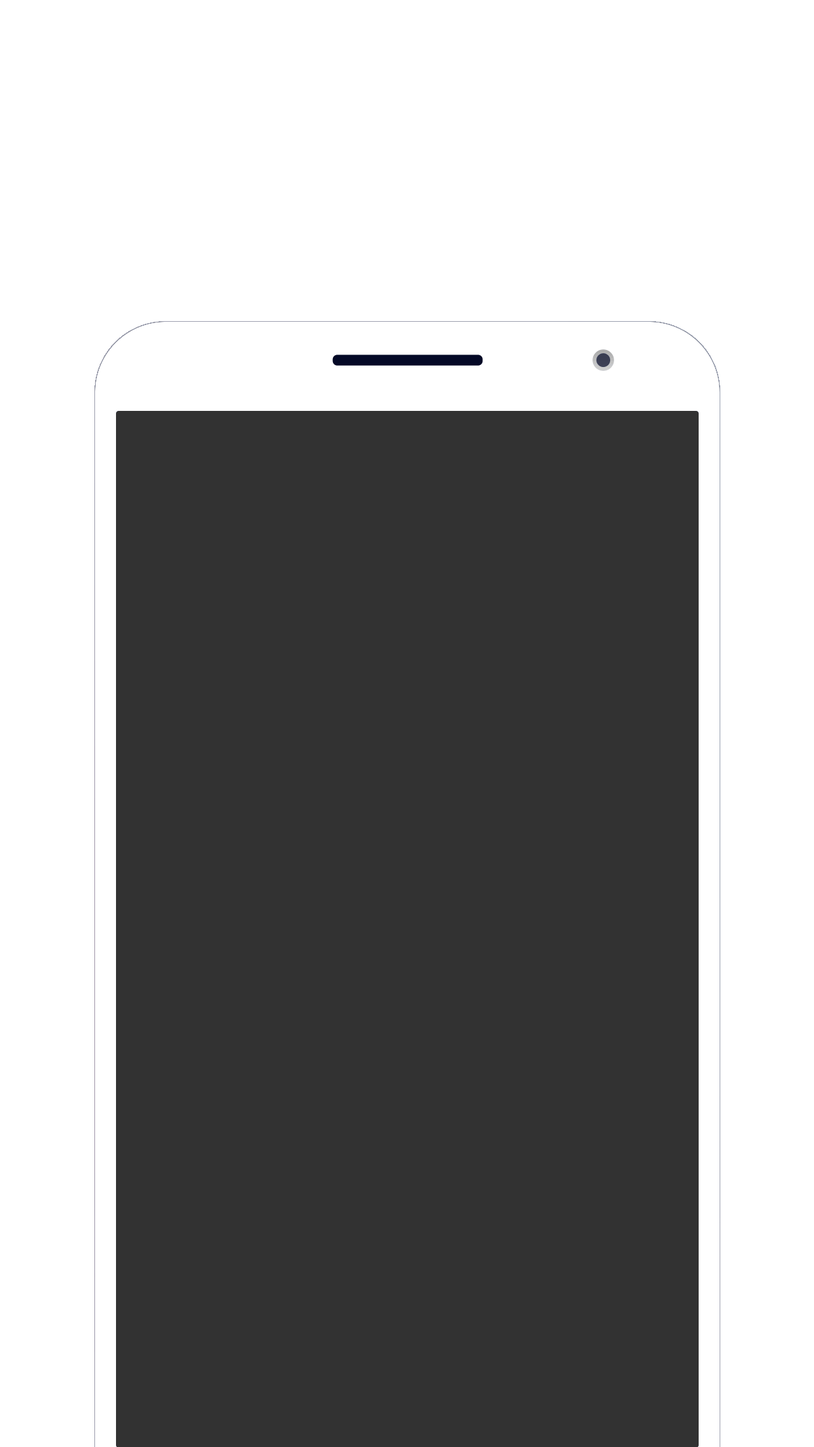
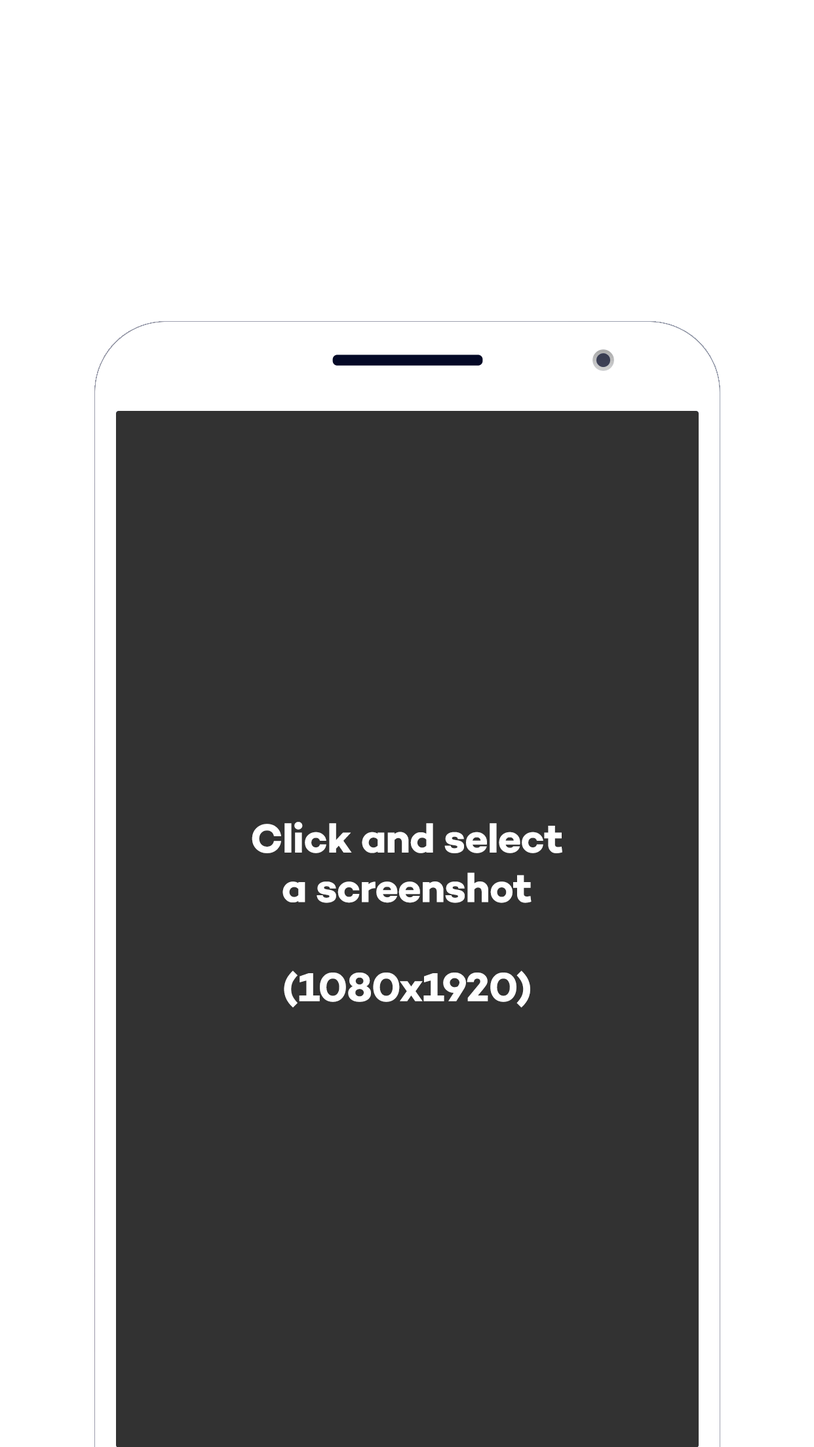
text-color and bg color added

Changed region(s): [[0.306, 0.5625, 0.7037, 0.625], [0.3366, 0.6562, 0.6731, 0.7188]]

diff --git a/src/App.vue b/src/App.vue
@@ -1,35 +1,25 @@
 <template>
   <div id="app">
       <div class="container mx-auto py-5">
-        <header class="flex justify-between py-4 px-4 bg-green-300 rounded">
+        <!-- <header class="flex justify-between py-4 px-4 bg-green-300 rounded">
           <div id="logo">App Screen Builder</div>
           <nav>
             <a href="#">Test</a>
           </nav>
-        </header>
+        </header> -->
 
         <div id="app-wrapper" class="py-4 my-4 bg-white rounded">
           <div id="tabs">
-            <div id="tab-header">
-              <ul class="flex border-b">
-                <li class="-mb-px mr-1">
-                  <a class="bg-white inline-block border-l border-t border-r rounded-t py-2 px-4 text-blue-700 font-semibold" href="#">Screenshot 1</a>
-                </li>
-                <li class="mr-1">
-                  <a class="bg-white inline-block py-2 px-4 text-blue-500 hover:text-blue-800 font-semibold" href="#">Screenshot 2</a>
-                </li>
-                <li class="mr-1">
-                  <a class="bg-white inline-block py-2 px-4 text-blue-500 hover:text-blue-800 font-semibold" href="#"> Screenshot3</a>
-                </li>
-              </ul>
-            </div>
-
             <div class="tab-body flex p-4 bg-gray-300 rounded-bl rounded-br">
-              <div class="screenshot-wrapper bg-green-600 rounded relative">
-                <div class="editable-area flex justify-center items-center h-48 py-8">
-                  <p :style="{'font-family': activeFont, 'font-size': fontSize + 'px'}">{{ text }}</p>
+              <div>
+                <button class="inline-block w-full mb-4 py-3 text-center bg-green-600 rounded text-white shadow hover:bg-green-700 outline-none" @click="downloadImage">Download</button>
+                <div class="screenshot-wrapper rounded relative cursor-pointer" :style="{'background': bgColor.hex8, 'font-size': fontSize + 'px' }" @click="changeScreenshot">
+                  <div class="editable-area flex justify-center items-center h-48 py-8 text-center overflow-hidden">
+                    <p :style="{'font-family': activeFont, 'font-size': fontSize + 'px', 'color': textColor.hex8 }">{{ text }}</p>
+                  </div>
+                  <img :src="require('./assets/images/bg-android.png')" alt="" class="phone-frame absolute bottom-0 w-full h-auto">
+                  <div class="screenshot-cover" :style="ss ? {'background-image': 'url(' + ss + ')'} : ''"></div>
                 </div>
-                <img :src="require('./assets/images/bg-android.png')" alt="" class="phone-frame absolute bottom-0 w-full h-auto">
               </div>
 
               <div class="settings-wrapper p-8 bg-gray-200 ml-4 rounded flex-1">
@@ -39,14 +29,7 @@
                   </label>
                   <input class="shadow appearance-none border rounded w-full py-3 px-4 text-gray-700 leading-tight focus:outline-none focus:shadow-outline" id="text" type="text" placeholder="Plase enter text" v-model="text">
                 </div>
-                <div class="mb-4">
-                  <label class="block text-gray-700 text-sm font-bold mb-2" for="text">
-                    Phone
-                  </label>
-
-                  <Select />
-                </div>
-                <div class="flex mb-4 justify-between">
+                <div class="flex mb-4">
                   <div class="flex-1 mr-3">
                     <label class="block text-gray-700 text-sm font-bold mb-2" for="text">
                       Font Size
@@ -55,6 +38,25 @@
                     <input class="shadow appearance-none border rounded w-full py-3 px-4 text-gray-700 leading-tight focus:outline-none focus:shadow-outline" id="text" type="number" placeholder="Plase enter font size" v-model="fontSize">
                   </div>
                   <div class="flex-1 ml-3">
+                    <label class="block text-gray-700 text-sm font-bold mb-2" for="text">
+                        Text Color
+                    </label>
+                    <div class="flex">
+                      <input class="shadow appearance-none border rounded-bl rounded-tl w-full py-3 px-4 text-gray-700 leading-tight focus:outline-none focus:shadow-outline" id="text" type="text" v-model="textColor.hex8" autocomplete="off">
+                      <button class="shadow button py-3 px-4 bg-white rounded-br rounded-tr bg-gray-100" @click="() => this.textPickerStatus = !this.textPickerStatus">Pick</button>
+                    </div>
+                    <color-picker class="absolute z-10" v-model="textColor" v-show="textPickerStatus"></color-picker>
+                  </div>
+                </div>
+                <div class="mb-4">
+                  <label class="block text-gray-700 text-sm font-bold mb-2" for="text">
+                    Phone
+                  </label>
+
+                  <Select />
+                </div>
+                <div class="flex mb-4 justify-between">
+                  <div class="flex-1 ">
                     <label class="block text-gray-700 text-sm font-bold mb-2" for="">
                       Font Family
                     </label>
@@ -62,15 +64,38 @@
                   </div>
                 </div>
                 <div class="mb-4">
-                  <label class="block text-gray-700 text-sm font-bold mb-2" for="text">
-                      Text Color
+                  <label class="block text-gray-700 text-sm font-bold mb-2" for="">
+                      Background (CSS or HEX)
                   </label>
-                  <color-picker v-model="colors"></color-picker>
+                  <div class="solid-colors">
+                    <div class="my-5">
+                      <div class="flex">
+                        <input class="shadow appearance-none border rounded-bl rounded-tl w-full py-3 px-4 text-gray-700 leading-tight focus:outline-none focus:shadow-outline" id="text" type="text" v-model="bgColor.hex8" autocomplete="off">
+                        <button class="shadow button py-3 px-4 bg-white rounded-br rounded-tr bg-gray-100" @click="() => this.bgPickerStatus = !this.bgPickerStatus">Pick</button>
+                      </div>
+                      <color-picker class="absolute z-10" v-model="bgColor" v-show="bgPickerStatus"></color-picker>
+
+                      <div class="static-bg-colors flex flex-wrap justify-between mt-5 pt-2 border-t">
+                        <button class="bg-color-box w-24 h-20 my-3 mx-2 rounded shadow" :style="{'background': color}" v-for="(color, key) in staticGradients" :key="key" @click="setBgColor(color)"></button>
+                      </div>
+                    </div>
+                  </div>
+                  <input type="file" ref="ss" class="ss-file-input" @change="changeSS">
                 </div>
               </div>
             </div>
           </div>
         </div>
+      </div>
+
+
+      <!-- Screenshot -->
+      <div id="screenshot" class="screenshot-wrapper relative overflow-hidden" :style="{'background': bgColor.hex8, 'font-size': fontSize + 'px' }">
+        <div class="editable-area flex justify-center items-center h-48 py-8 text-center overflow-hidden">
+          <p :style="{'font-family': activeFont, 'font-size': fontSize + 'px', 'color': textColor.hex8 }">{{ text }}</p>
+        </div>
+        <img :src="require('./assets/images/bg-android.png')" alt="" class="phone-frame absolute bottom-0 w-full h-auto">
+        <div class="screenshot-cover" :style="ss ? {'background-image': 'url(' + ss + ')'} : ''"></div>
       </div>
   </div>
 </template>
@@ -80,38 +105,177 @@ import Select from './components/Select';
 import Vue from 'vue';
 import FontPicker from 'font-picker-vue';
 import { Chrome } from 'vue-color'
+import VueTinyTabs from 'vue-tiny-tabs'
+import html2canvas from 'html2canvas';
 
 export default {
   data(){
     return ({
-      text: "",
+      text: "Lorem sit dolor amet",
       activeFont: "Exo",
-      fontSize: 14,
-      colors: {
-        hex: '#194d33',
-        hsl: { h: 150, s: 0.5, l: 0.2, a: 1 },
-        hsv: { h: 150, s: 0.66, v: 0.30, a: 1 },
-        rgba: { r: 25, g: 77, b: 51, a: 1 },
-        a: 1
-      }
+      fontSize: 32,
+      textColor: {
+        hex: "#ffffff",
+        hex8: "#ffffffff"
+      },
+      bgColor: {
+        hex: "#38a169",
+        hex8: "#FF9B00ff"
+      },
+      textPickerStatus: false,
+      bgPickerStatus: false,
+      ss: "",
+      staticGradients: [
+        "linear-gradient(56deg, rgba(130, 130, 130, 0.05) 0%, rgba(130, 130, 130, 0.05) 33.333%,rgba(255, 255, 255, 0.05) 33.333%, rgba(255, 255, 255, 0.05) 66.666%,rgba(198, 198, 198, 0.05) 66.666%, rgba(198, 198, 198, 0.05) 99.999%),linear-gradient(29deg, rgba(94, 94, 94, 0.05) 0%, rgba(94, 94, 94, 0.05) 33.333%,rgba(185, 185, 185, 0.05) 33.333%, rgba(185, 185, 185, 0.05) 66.666%,rgba(113, 113, 113, 0.05) 66.666%, rgba(113, 113, 113, 0.05) 99.999%),linear-gradient(129deg, rgba(196, 196, 196, 0.05) 0%, rgba(196, 196, 196, 0.05) 33.333%,rgba(148, 148, 148, 0.05) 33.333%, rgba(148, 148, 148, 0.05) 66.666%,rgba(24, 24, 24, 0.05) 66.666%, rgba(24, 24, 24, 0.05) 99.999%),linear-gradient(76deg, rgba(19, 19, 19, 0.05) 0%, rgba(19, 19, 19, 0.05) 33.333%,rgba(159, 159, 159, 0.05) 33.333%, rgba(159, 159, 159, 0.05) 66.666%,rgba(108, 108, 108, 0.05) 66.666%, rgba(108, 108, 108, 0.05) 99.999%),linear-gradient(112deg, rgba(225, 225, 225, 0.05) 0%, rgba(225, 225, 225, 0.05) 33.333%,rgba(13, 13, 13, 0.05) 33.333%, rgba(13, 13, 13, 0.05) 66.666%,rgba(81, 81, 81, 0.05) 66.666%, rgba(81, 81, 81, 0.05) 99.999%),linear-gradient(90deg, rgb(75, 2, 28),rgb(175, 60, 142))",
+        "linear-gradient(44deg, rgba(243, 243, 243, 0.05) 0%, rgba(243, 243, 243, 0.05) 33.333%,rgba(79, 79, 79, 0.05) 33.333%, rgba(79, 79, 79, 0.05) 66.666%,rgba(9, 9, 9, 0.05) 66.666%, rgba(9, 9, 9, 0.05) 99.999%),linear-gradient(97deg, rgba(150, 150, 150, 0.05) 0%, rgba(150, 150, 150, 0.05) 33.333%,rgba(34, 34, 34, 0.05) 33.333%, rgba(34, 34, 34, 0.05) 66.666%,rgba(40, 40, 40, 0.05) 66.666%, rgba(40, 40, 40, 0.05) 99.999%),linear-gradient(29deg, rgba(56, 56, 56, 0.05) 0%, rgba(56, 56, 56, 0.05) 33.333%,rgba(226, 226, 226, 0.05) 33.333%, rgba(226, 226, 226, 0.05) 66.666%,rgba(221, 221, 221, 0.05) 66.666%, rgba(221, 221, 221, 0.05) 99.999%),linear-gradient(90deg, rgb(163, 238, 211),rgb(149, 75, 252))",
+        "linear-gradient(140deg, rgba(60, 60, 60, 0.04) 0%, rgba(60, 60, 60, 0.04) 18%,rgba(228, 228, 228, 0.04) 18%, rgba(228, 228, 228, 0.04) 100%),linear-gradient(252deg, rgba(159, 159, 159, 0.04) 0%, rgba(159, 159, 159, 0.04) 76%,rgba(255, 255, 255, 0.04) 76%, rgba(255, 255, 255, 0.04) 100%),linear-gradient(148deg, rgba(165, 165, 165, 0.04) 0%, rgba(165, 165, 165, 0.04) 30%,rgba(221, 221, 221, 0.04) 30%, rgba(221, 221, 221, 0.04) 100%),linear-gradient(196deg, rgba(238, 238, 238, 0.04) 0%, rgba(238, 238, 238, 0.04) 41%,rgba(176, 176, 176, 0.04) 41%, rgba(176, 176, 176, 0.04) 100%),linear-gradient(295deg, rgba(245, 245, 245, 0.04) 0%, rgba(245, 245, 245, 0.04) 75%,rgba(68, 68, 68, 0.04) 75%, rgba(68, 68, 68, 0.04) 100%),linear-gradient(89deg, rgba(179, 179, 179, 0.04) 0%, rgba(179, 179, 179, 0.04) 22%,rgba(30, 30, 30, 0.04) 22%, rgba(30, 30, 30, 0.04) 100%),linear-gradient(165deg, rgba(0, 0, 0, 0.04) 0%, rgba(0, 0, 0, 0.04) 40%,rgba(147, 147, 147, 0.04) 40%, rgba(147, 147, 147, 0.04) 100%),linear-gradient(293deg, rgba(204, 204, 204, 0.04) 0%, rgba(204, 204, 204, 0.04) 73%,rgba(62, 62, 62, 0.04) 73%, rgba(62, 62, 62, 0.04) 100%),linear-gradient(90deg, rgb(215, 117, 38),rgb(171, 161, 219))",
+        "linear-gradient(10deg, rgba(134, 134, 134, 0.05) 0%, rgba(134, 134, 134, 0.05) 33.333%,rgba(203, 203, 203, 0.05) 33.333%, rgba(203, 203, 203, 0.05) 66.666%,rgba(48, 48, 48, 0.05) 66.666%, rgba(48, 48, 48, 0.05) 99.999%),linear-gradient(295deg, rgba(90, 90, 90, 0.05) 0%, rgba(90, 90, 90, 0.05) 33.333%,rgba(23, 23, 23, 0.05) 33.333%, rgba(23, 23, 23, 0.05) 66.666%,rgba(71, 71, 71, 0.05) 66.666%, rgba(71, 71, 71, 0.05) 99.999%),linear-gradient(313deg, rgba(186, 186, 186, 0.05) 0%, rgba(186, 186, 186, 0.05) 33.333%,rgba(174, 174, 174, 0.05) 33.333%, rgba(174, 174, 174, 0.05) 66.666%,rgba(196, 196, 196, 0.05) 66.666%, rgba(196, 196, 196, 0.05) 99.999%),linear-gradient(356deg, rgba(2, 2, 2, 0.05) 0%, rgba(2, 2, 2, 0.05) 33.333%,rgba(110, 110, 110, 0.05) 33.333%, rgba(110, 110, 110, 0.05) 66.666%,rgba(207, 207, 207, 0.05) 66.666%, rgba(207, 207, 207, 0.05) 99.999%),linear-gradient(343deg, rgba(39, 39, 39, 0.05) 0%, rgba(39, 39, 39, 0.05) 33.333%,rgba(145, 145, 145, 0.05) 33.333%, rgba(145, 145, 145, 0.05) 66.666%,rgba(205, 205, 205, 0.05) 66.666%, rgba(205, 205, 205, 0.05) 99.999%),linear-gradient(90deg, rgb(227, 5, 98),rgb(215, 148, 27))",
+        "linear-gradient(330deg, rgba(225, 225, 225, 0.05) 0%, rgba(225, 225, 225, 0.05) 33.333%,rgba(114, 114, 114, 0.05) 33.333%, rgba(114, 114, 114, 0.05) 66.666%,rgba(52, 52, 52, 0.05) 66.666%, rgba(52, 52, 52, 0.05) 99.999%),linear-gradient(66deg, rgba(181, 181, 181, 0.05) 0%, rgba(181, 181, 181, 0.05) 33.333%,rgba(27, 27, 27, 0.05) 33.333%, rgba(27, 27, 27, 0.05) 66.666%,rgba(251, 251, 251, 0.05) 66.666%, rgba(251, 251, 251, 0.05) 99.999%),linear-gradient(225deg, rgba(98, 98, 98, 0.05) 0%, rgba(98, 98, 98, 0.05) 33.333%,rgba(222, 222, 222, 0.05) 33.333%, rgba(222, 222, 222, 0.05) 66.666%,rgba(228, 228, 228, 0.05) 66.666%, rgba(228, 228, 228, 0.05) 99.999%),linear-gradient(90deg, rgb(28, 20, 63),rgb(40, 160, 253))",
+        "linear-gradient(17deg, rgba(41, 41, 41, 0.02) 0%, rgba(41, 41, 41, 0.02) 48%,rgba(10, 10, 10, 0.02) 48%, rgba(10, 10, 10, 0.02) 59%,rgba(164, 164, 164, 0.02) 59%, rgba(164, 164, 164, 0.02) 73%,rgba(79, 79, 79, 0.02) 73%, rgba(79, 79, 79, 0.02) 93%,rgba(42, 42, 42, 0.02) 93%, rgba(42, 42, 42, 0.02) 100%),linear-gradient(42deg, rgba(124, 124, 124, 0.02) 0%, rgba(124, 124, 124, 0.02) 15%,rgba(116, 116, 116, 0.02) 15%, rgba(116, 116, 116, 0.02) 23%,rgba(41, 41, 41, 0.02) 23%, rgba(41, 41, 41, 0.02) 44%,rgba(196, 196, 196, 0.02) 44%, rgba(196, 196, 196, 0.02) 54%,rgba(145, 145, 145, 0.02) 54%, rgba(145, 145, 145, 0.02) 100%),linear-gradient(151deg, rgba(85, 85, 85, 0.02) 0%, rgba(85, 85, 85, 0.02) 12%,rgba(72, 72, 72, 0.02) 12%, rgba(72, 72, 72, 0.02) 28%,rgba(156, 156, 156, 0.02) 28%, rgba(156, 156, 156, 0.02) 33%,rgba(230, 230, 230, 0.02) 33%, rgba(230, 230, 230, 0.02) 50%,rgba(13, 13, 13, 0.02) 50%, rgba(13, 13, 13, 0.02) 100%),linear-gradient(76deg, rgba(25, 25, 25, 0.02) 0%, rgba(25, 25, 25, 0.02) 9%,rgba(183, 183, 183, 0.02) 9%, rgba(183, 183, 183, 0.02) 32%,rgba(19, 19, 19, 0.02) 32%, rgba(19, 19, 19, 0.02) 86%,rgba(129, 129, 129, 0.02) 86%, rgba(129, 129, 129, 0.02) 88%,rgba(174, 174, 174, 0.02) 88%, rgba(174, 174, 174, 0.02) 100%),linear-gradient(90deg, rgb(41, 41, 41),rgb(8, 8, 8))",
+        "linear-gradient(246deg, rgba(234, 234, 234, 0.04) 0%, rgba(234, 234, 234, 0.04) 33.3%,rgba(69, 69, 69, 0.04) 33.3%, rgba(69, 69, 69, 0.04) 66.6%,rgba(189, 189, 189, 0.04) 66.6%, rgba(189, 189, 189, 0.04) 99.89999999999999%),linear-gradient(81deg, rgba(126, 126, 126, 0.05) 0%, rgba(126, 126, 126, 0.05) 33.3%,rgba(237, 237, 237, 0.05) 33.3%, rgba(237, 237, 237, 0.05) 66.6%,rgba(74, 74, 74, 0.05) 66.6%, rgba(74, 74, 74, 0.05) 99.89999999999999%),linear-gradient(14deg, rgba(3, 3, 3, 0.08) 0%, rgba(3, 3, 3, 0.08) 33.3%,rgba(156, 156, 156, 0.08) 33.3%, rgba(156, 156, 156, 0.08) 66.6%,rgba(199, 199, 199, 0.08) 66.6%, rgba(199, 199, 199, 0.08) 99.89999999999999%),linear-gradient(323deg, rgba(82, 82, 82, 0.06) 0%, rgba(82, 82, 82, 0.06) 33.3%,rgba(179, 179, 179, 0.06) 33.3%, rgba(179, 179, 179, 0.06) 66.6%,rgba(212, 212, 212, 0.06) 66.6%, rgba(212, 212, 212, 0.06) 99.89999999999999%),linear-gradient(32deg, rgba(70, 70, 70, 0.02) 0%, rgba(70, 70, 70, 0.02) 33.3%,rgba(166, 166, 166, 0.02) 33.3%, rgba(166, 166, 166, 0.02) 66.6%,rgba(53, 53, 53, 0.02) 66.6%, rgba(53, 53, 53, 0.02) 99.89999999999999%),linear-gradient(38deg, rgba(129, 129, 129, 0.09) 0%, rgba(129, 129, 129, 0.09) 33.3%,rgba(38, 38, 38, 0.09) 33.3%, rgba(38, 38, 38, 0.09) 66.6%,rgba(153, 153, 153, 0.09) 66.6%, rgba(153, 153, 153, 0.09) 99.89999999999999%),linear-gradient(63deg, rgba(51, 51, 51, 0.02) 0%, rgba(51, 51, 51, 0.02) 33.3%,rgba(12, 12, 12, 0.02) 33.3%, rgba(12, 12, 12, 0.02) 66.6%,rgba(158, 158, 158, 0.02) 66.6%, rgba(158, 158, 158, 0.02) 99.89999999999999%),linear-gradient(227deg, rgba(63, 63, 63, 0.03) 0%, rgba(63, 63, 63, 0.03) 33.3%,rgba(9, 9, 9, 0.03) 33.3%, rgba(9, 9, 9, 0.03) 66.6%,rgba(85, 85, 85, 0.03) 66.6%, rgba(85, 85, 85, 0.03) 99.89999999999999%),linear-gradient(103deg, rgba(247, 247, 247, 0.07) 0%, rgba(247, 247, 247, 0.07) 33.3%,rgba(93, 93, 93, 0.07) 33.3%, rgba(93, 93, 93, 0.07) 66.6%,rgba(208, 208, 208, 0.07) 66.6%, rgba(208, 208, 208, 0.07) 99%),linear-gradient(0deg, #0b91d7,#6efc29)",
+        "linear-gradient(52deg, rgba(163, 163, 163, 0.09) 0%, rgba(163, 163, 163, 0.09) 33.3%,rgba(100, 100, 100, 0.09) 33.3%, rgba(100, 100, 100, 0.09) 66.6%,rgba(162, 162, 162, 0.09) 66.6%, rgba(162, 162, 162, 0.09) 99%),linear-gradient(258deg, rgba(193, 193, 193, 0.06) 0%, rgba(193, 193, 193, 0.06) 33.3%,rgba(169, 169, 169, 0.06) 33.3%, rgba(169, 169, 169, 0.06) 66.6%,rgba(92, 92, 92, 0.06) 66.6%, rgba(92, 92, 92, 0.06) 99%),linear-gradient(129deg, rgba(45, 45, 45, 0.03) 0%, rgba(45, 45, 45, 0.03) 33.3%,rgba(223, 223, 223, 0.03) 33.3%, rgba(223, 223, 223, 0.03) 66.6%,rgba(173, 173, 173, 0.03) 66.6%, rgba(173, 173, 173, 0.03) 99%),linear-gradient(280deg, rgba(226, 226, 226, 0.06) 0%, rgba(226, 226, 226, 0.06) 33.3%,rgba(81, 81, 81, 0.06) 33.3%, rgba(81, 81, 81, 0.06) 66.6%,rgba(186, 186, 186, 0.06) 66.6%, rgba(186, 186, 186, 0.06) 99%),linear-gradient(85deg, rgba(225, 225, 225, 0.04) 0%, rgba(225, 225, 225, 0.04) 33.3%,rgba(95, 95, 95, 0.04) 33.3%, rgba(95, 95, 95, 0.04) 66.6%,rgba(39, 39, 39, 0.04) 66.6%, rgba(39, 39, 39, 0.04) 99%),linear-gradient(128deg, rgba(184, 184, 184, 0.06) 0%, rgba(184, 184, 184, 0.06) 33.3%,rgba(0, 0, 0, 0.06) 33.3%, rgba(0, 0, 0, 0.06) 66.6%,rgba(140, 140, 140, 0.06) 66.6%, rgba(140, 140, 140, 0.06) 99.89999999999999%),linear-gradient(323deg, rgba(40, 40, 40, 0.07) 0%, rgba(40, 40, 40, 0.07) 33.3%,rgba(214, 214, 214, 0.07) 33.3%, rgba(214, 214, 214, 0.07) 66.6%,rgba(190, 190, 190, 0.07) 66.6%, rgba(190, 190, 190, 0.07) 99.89999999999999%),linear-gradient(61deg, rgba(230, 230, 230, 0) 0%, rgba(230, 230, 230, 0) 33.3%,rgba(241, 241, 241, 0) 33.3%, rgba(241, 241, 241, 0) 66.6%,rgba(55, 55, 55, 0) 66.6%, rgba(55, 55, 55, 0) 99%),linear-gradient(0deg, #2625e3,#0bbaef)",
+        "linear-gradient(45deg, rgb(242, 1, 146) 0%, rgb(242, 1, 146) 14.286%,rgb(205, 4, 143) 14.286%, rgb(205, 4, 143) 28.572%,rgb(168, 6, 140) 28.572%, rgb(168, 6, 140) 42.858%,rgb(132, 9, 137) 42.858%, rgb(132, 9, 137) 57.144%,rgb(95, 12, 134) 57.144%, rgb(95, 12, 134) 71.43%,rgb(58, 14, 131) 71.43%, rgb(58, 14, 131) 85.716%,rgb(21, 17, 128) 85.716%, rgb(21, 17, 128) 100.002%)",
+        "linear-gradient(45deg, rgb(221, 133, 9) 0%, rgb(221, 133, 9) 14.286%,rgb(227, 152, 25) 14.286%, rgb(227, 152, 25) 28.572%,rgb(232, 170, 40) 28.572%, rgb(232, 170, 40) 42.858%,rgb(238, 189, 56) 42.858%, rgb(238, 189, 56) 57.144%,rgb(244, 208, 72) 57.144%, rgb(244, 208, 72) 71.43%,rgb(249, 226, 87) 71.43%, rgb(249, 226, 87) 85.716%,rgb(255, 245, 103) 85.716%, rgb(255, 245, 103) 100.002%)",
+        "linear-gradient(45deg, rgb(2, 6, 1) 0%, rgb(2, 6, 1) 14.286%,rgb(8, 29, 31) 14.286%, rgb(8, 29, 31) 28.572%,rgb(13, 52, 61) 28.572%, rgb(13, 52, 61) 42.858%,rgb(19, 75, 92) 42.858%, rgb(19, 75, 92) 57.144%,rgb(25, 98, 122) 57.144%, rgb(25, 98, 122) 71.43%,rgb(30, 121, 152) 71.43%, rgb(30, 121, 152) 85.716%,rgb(36, 144, 182) 85.716%, rgb(36, 144, 182) 100.002%)",
+        "linear-gradient(45deg, rgb(233, 22, 95) 0%, rgb(233, 22, 95) 14.286%,rgb(237, 57, 107) 14.286%, rgb(237, 57, 107) 28.572%,rgb(240, 92, 118) 28.572%, rgb(240, 92, 118) 42.858%,rgb(244, 127, 130) 42.858%, rgb(244, 127, 130) 57.144%,rgb(247, 162, 142) 57.144%, rgb(247, 162, 142) 71.43%,rgb(251, 197, 153) 71.43%, rgb(251, 197, 153) 85.716%,rgb(254, 232, 165) 85.716%, rgb(254, 232, 165) 100.002%)",
+        "linear-gradient(45deg, rgb(20, 222, 124) 0%, rgb(20, 222, 124) 21%,rgb(25, 190, 119) 21%, rgb(25, 190, 119) 37%,rgb(30, 158, 113) 37%, rgb(30, 158, 113) 46%,rgb(35, 126, 108) 46%, rgb(35, 126, 108) 53%,rgb(39, 94, 103) 53%, rgb(39, 94, 103) 59%,rgb(44, 62, 97) 59%, rgb(44, 62, 97) 77%,rgb(49, 30, 92) 77%, rgb(49, 30, 92) 100%)",
+        "linear-gradient(45deg, rgba(48, 160, 200, 0.36) 0%, rgba(48, 160, 200, 0.36) 27%,rgba(66, 208, 212, 0.36) 27%, rgba(66, 208, 212, 0.36) 30%,rgba(57, 184, 206, 0.36) 30%, rgba(57, 184, 206, 0.36) 38%,rgba(75, 232, 218, 0.36) 38%, rgba(75, 232, 218, 0.36) 41%,rgba(38, 135, 193, 0.36) 41%, rgba(38, 135, 193, 0.36) 67%,rgba(29, 111, 187, 0.36) 67%, rgba(29, 111, 187, 0.36) 68%,rgba(20, 87, 181, 0.36) 68%, rgba(20, 87, 181, 0.36) 71%,rgba(11, 63, 175, 0.36) 71%, rgba(11, 63, 175, 0.36) 100%),linear-gradient(45deg, rgba(120, 161, 172, 0.37) 0%, rgba(120, 161, 172, 0.37) 12.5%,rgba(83, 81, 120, 0.37) 12.5%, rgba(83, 81, 120, 0.37) 25%,rgba(132, 188, 189, 0.37) 25%, rgba(132, 188, 189, 0.37) 37.5%,rgba(95, 108, 137, 0.37) 37.5%, rgba(95, 108, 137, 0.37) 50%,rgba(144, 215, 206, 0.37) 50%, rgba(144, 215, 206, 0.37) 62.5%,rgba(107, 135, 154, 0.37) 62.5%, rgba(107, 135, 154, 0.37) 75%,rgba(156, 242, 223, 0.37) 75%, rgba(156, 242, 223, 0.37) 87.5%,rgba(71, 54, 103, 0.37) 87.5%, rgba(71, 54, 103, 0.37) 100%),linear-gradient(63deg, rgb(156, 214, 233),rgb(74, 10, 132))",
+        "linear-gradient(45deg, rgb(239, 7, 129) 0%, rgb(239, 7, 129) 6%,rgb(208, 10, 112) 6%, rgb(208, 10, 112) 25%,rgb(177, 13, 96) 25%, rgb(177, 13, 96) 40%,rgb(147, 16, 79) 40%, rgb(147, 16, 79) 45%,rgb(116, 19, 62) 45%, rgb(116, 19, 62) 53%,rgb(85, 22, 46) 53%, rgb(85, 22, 46) 66%,rgb(54, 25, 29) 66%, rgb(54, 25, 29) 100%)",
+        "linear-gradient(22.5deg, rgba(67, 67, 67, 0.02) 0%, rgba(67, 67, 67, 0.02) 29%,rgba(47, 47, 47, 0.02) 29%, rgba(47, 47, 47, 0.02) 37%,rgba(23, 23, 23, 0.02) 37%, rgba(23, 23, 23, 0.02) 55%,rgba(182, 182, 182, 0.02) 55%, rgba(182, 182, 182, 0.02) 69%,rgba(27, 27, 27, 0.02) 69%, rgba(27, 27, 27, 0.02) 71%,rgba(250, 250, 250, 0.02) 71%, rgba(250, 250, 250, 0.02) 100%),linear-gradient(67.5deg, rgba(117, 117, 117, 0.02) 0%, rgba(117, 117, 117, 0.02) 14%,rgba(199, 199, 199, 0.02) 14%, rgba(199, 199, 199, 0.02) 40%,rgba(33, 33, 33, 0.02) 40%, rgba(33, 33, 33, 0.02) 48%,rgba(135, 135, 135, 0.02) 48%, rgba(135, 135, 135, 0.02) 60%,rgba(148, 148, 148, 0.02) 60%, rgba(148, 148, 148, 0.02) 95%,rgba(53, 53, 53, 0.02) 95%, rgba(53, 53, 53, 0.02) 100%),linear-gradient(135deg, rgba(190, 190, 190, 0.02) 0%, rgba(190, 190, 190, 0.02) 6%,rgba(251, 251, 251, 0.02) 6%, rgba(251, 251, 251, 0.02) 18%,rgba(2, 2, 2, 0.02) 18%, rgba(2, 2, 2, 0.02) 27%,rgba(253, 253, 253, 0.02) 27%, rgba(253, 253, 253, 0.02) 49%,rgba(128, 128, 128, 0.02) 49%, rgba(128, 128, 128, 0.02) 76%,rgba(150, 150, 150, 0.02) 76%, rgba(150, 150, 150, 0.02) 100%),linear-gradient(90deg, #FFF,#FFF)",
+        "linear-gradient(131deg, rgba(186, 186, 186, 0.01) 0%, rgba(186, 186, 186, 0.01) 16.667%,rgba(192, 192, 192, 0.01) 16.667%, rgba(192, 192, 192, 0.01) 33.334%,rgba(48, 48, 48, 0.01) 33.334%, rgba(48, 48, 48, 0.01) 50.001000000000005%,rgba(33, 33, 33, 0.01) 50.001%, rgba(33, 33, 33, 0.01) 66.668%,rgba(182, 182, 182, 0.01) 66.668%, rgba(182, 182, 182, 0.01) 83.33500000000001%,rgba(211, 211, 211, 0.01) 83.335%, rgba(211, 211, 211, 0.01) 100.002%),linear-gradient(148deg, rgba(48, 48, 48, 0.01) 0%, rgba(48, 48, 48, 0.01) 16.667%,rgba(178, 178, 178, 0.01) 16.667%, rgba(178, 178, 178, 0.01) 33.334%,rgba(192, 192, 192, 0.01) 33.334%, rgba(192, 192, 192, 0.01) 50.001000000000005%,rgba(237, 237, 237, 0.01) 50.001%, rgba(237, 237, 237, 0.01) 66.668%,rgba(194, 194, 194, 0.01) 66.668%, rgba(194, 194, 194, 0.01) 83.33500000000001%,rgba(227, 227, 227, 0.01) 83.335%, rgba(227, 227, 227, 0.01) 100.002%),linear-gradient(138deg, rgba(146, 146, 146, 0.03) 0%, rgba(146, 146, 146, 0.03) 25%,rgba(33, 33, 33, 0.03) 25%, rgba(33, 33, 33, 0.03) 50%,rgba(46, 46, 46, 0.03) 50%, rgba(46, 46, 46, 0.03) 75%,rgba(172, 172, 172, 0.03) 75%, rgba(172, 172, 172, 0.03) 100%),linear-gradient(38deg, rgba(3, 3, 3, 0.03) 0%, rgba(3, 3, 3, 0.03) 16.667%,rgba(28, 28, 28, 0.03) 16.667%, rgba(28, 28, 28, 0.03) 33.334%,rgba(236, 236, 236, 0.03) 33.334%, rgba(236, 236, 236, 0.03) 50.001000000000005%,rgba(3, 3, 3, 0.03) 50.001%, rgba(3, 3, 3, 0.03) 66.668%,rgba(207, 207, 207, 0.03) 66.668%, rgba(207, 207, 207, 0.03) 83.33500000000001%,rgba(183, 183, 183, 0.03) 83.335%, rgba(183, 183, 183, 0.03) 100.002%),linear-gradient(145deg, rgba(20, 20, 20, 0.02) 0%, rgba(20, 20, 20, 0.02) 20%,rgba(4, 4, 4, 0.02) 20%, rgba(4, 4, 4, 0.02) 40%,rgba(194, 194, 194, 0.02) 40%, rgba(194, 194, 194, 0.02) 60%,rgba(34, 34, 34, 0.02) 60%, rgba(34, 34, 34, 0.02) 80%,rgba(71, 71, 71, 0.02) 80%, rgba(71, 71, 71, 0.02) 100%),linear-gradient(78deg, rgba(190, 190, 190, 0.02) 0%, rgba(190, 190, 190, 0.02) 20%,rgba(95, 95, 95, 0.02) 20%, rgba(95, 95, 95, 0.02) 40%,rgba(71, 71, 71, 0.02) 40%, rgba(71, 71, 71, 0.02) 60%,rgba(7, 7, 7, 0.02) 60%, rgba(7, 7, 7, 0.02) 80%,rgba(130, 130, 130, 0.02) 80%, rgba(130, 130, 130, 0.02) 100%),linear-gradient(293deg, rgba(213, 213, 213, 0.03) 0%, rgba(213, 213, 213, 0.03) 20%,rgba(220, 220, 220, 0.03) 20%, rgba(220, 220, 220, 0.03) 40%,rgba(146, 146, 146, 0.03) 40%, rgba(146, 146, 146, 0.03) 60%,rgba(57, 57, 57, 0.03) 60%, rgba(57, 57, 57, 0.03) 80%,rgba(120, 120, 120, 0.03) 80%, rgba(120, 120, 120, 0.03) 100%),linear-gradient(90deg, rgb(225, 15, 180),rgb(78, 198, 243))",
+        "linear-gradient(323deg, rgba(255, 255, 255, 0.01) 0%, rgba(255, 255, 255, 0.01) 16.667%,rgba(46, 46, 46, 0.01) 16.667%, rgba(46, 46, 46, 0.01) 33.334%,rgba(226, 226, 226, 0.01) 33.334%, rgba(226, 226, 226, 0.01) 50.001000000000005%,rgba(159, 159, 159, 0.01) 50.001%, rgba(159, 159, 159, 0.01) 66.668%,rgba(149, 149, 149, 0.01) 66.668%, rgba(149, 149, 149, 0.01) 83.33500000000001%,rgba(43, 43, 43, 0.01) 83.335%, rgba(43, 43, 43, 0.01) 100.002%),linear-gradient(346deg, rgba(166, 166, 166, 0.03) 0%, rgba(166, 166, 166, 0.03) 25%,rgba(240, 240, 240, 0.03) 25%, rgba(240, 240, 240, 0.03) 50%,rgba(121, 121, 121, 0.03) 50%, rgba(121, 121, 121, 0.03) 75%,rgba(40, 40, 40, 0.03) 75%, rgba(40, 40, 40, 0.03) 100%),linear-gradient(347deg, rgba(209, 209, 209, 0.01) 0%, rgba(209, 209, 209, 0.01) 25%,rgba(22, 22, 22, 0.01) 25%, rgba(22, 22, 22, 0.01) 50%,rgba(125, 125, 125, 0.01) 50%, rgba(125, 125, 125, 0.01) 75%,rgba(205, 205, 205, 0.01) 75%, rgba(205, 205, 205, 0.01) 100%),linear-gradient(84deg, rgba(195, 195, 195, 0.01) 0%, rgba(195, 195, 195, 0.01) 14.286%,rgba(64, 64, 64, 0.01) 14.286%, rgba(64, 64, 64, 0.01) 28.572%,rgba(67, 67, 67, 0.01) 28.572%, rgba(67, 67, 67, 0.01) 42.858%,rgba(214, 214, 214, 0.01) 42.858%, rgba(214, 214, 214, 0.01) 57.144%,rgba(45, 45, 45, 0.01) 57.144%, rgba(45, 45, 45, 0.01) 71.42999999999999%,rgba(47, 47, 47, 0.01) 71.43%, rgba(47, 47, 47, 0.01) 85.71600000000001%,rgba(172, 172, 172, 0.01) 85.716%, rgba(172, 172, 172, 0.01) 100.002%),linear-gradient(73deg, rgba(111, 111, 111, 0.03) 0%, rgba(111, 111, 111, 0.03) 16.667%,rgba(202, 202, 202, 0.03) 16.667%, rgba(202, 202, 202, 0.03) 33.334%,rgba(57, 57, 57, 0.03) 33.334%, rgba(57, 57, 57, 0.03) 50.001000000000005%,rgba(197, 197, 197, 0.03) 50.001%, rgba(197, 197, 197, 0.03) 66.668%,rgba(97, 97, 97, 0.03) 66.668%, rgba(97, 97, 97, 0.03) 83.33500000000001%,rgba(56, 56, 56, 0.03) 83.335%, rgba(56, 56, 56, 0.03) 100.002%),linear-gradient(132deg, rgba(88, 88, 88, 0.03) 0%, rgba(88, 88, 88, 0.03) 20%,rgba(249, 249, 249, 0.03) 20%, rgba(249, 249, 249, 0.03) 40%,rgba(2, 2, 2, 0.03) 40%, rgba(2, 2, 2, 0.03) 60%,rgba(185, 185, 185, 0.03) 60%, rgba(185, 185, 185, 0.03) 80%,rgba(196, 196, 196, 0.03) 80%, rgba(196, 196, 196, 0.03) 100%),linear-gradient(142deg, rgba(160, 160, 160, 0.03) 0%, rgba(160, 160, 160, 0.03) 12.5%,rgba(204, 204, 204, 0.03) 12.5%, rgba(204, 204, 204, 0.03) 25%,rgba(108, 108, 108, 0.03) 25%, rgba(108, 108, 108, 0.03) 37.5%,rgba(191, 191, 191, 0.03) 37.5%, rgba(191, 191, 191, 0.03) 50%,rgba(231, 231, 231, 0.03) 50%, rgba(231, 231, 231, 0.03) 62.5%,rgba(70, 70, 70, 0.03) 62.5%, rgba(70, 70, 70, 0.03) 75%,rgba(166, 166, 166, 0.03) 75%, rgba(166, 166, 166, 0.03) 87.5%,rgba(199, 199, 199, 0.03) 87.5%, rgba(199, 199, 199, 0.03) 100%),linear-gradient(238deg, rgba(116, 116, 116, 0.02) 0%, rgba(116, 116, 116, 0.02) 20%,rgba(141, 141, 141, 0.02) 20%, rgba(141, 141, 141, 0.02) 40%,rgba(152, 152, 152, 0.02) 40%, rgba(152, 152, 152, 0.02) 60%,rgba(61, 61, 61, 0.02) 60%, rgba(61, 61, 61, 0.02) 80%,rgba(139, 139, 139, 0.02) 80%, rgba(139, 139, 139, 0.02) 100%),linear-gradient(188deg, rgba(227, 227, 227, 0.01) 0%, rgba(227, 227, 227, 0.01) 20%,rgba(105, 105, 105, 0.01) 20%, rgba(105, 105, 105, 0.01) 40%,rgba(72, 72, 72, 0.01) 40%, rgba(72, 72, 72, 0.01) 60%,rgba(33, 33, 33, 0.01) 60%, rgba(33, 33, 33, 0.01) 80%,rgba(57, 57, 57, 0.01) 80%, rgba(57, 57, 57, 0.01) 100%),linear-gradient(90deg, hsl(237,0%,13%),hsl(237,0%,13%))",
+        "linear-gradient(56deg, rgba(254, 254, 254, 0.05) 0%, rgba(254, 254, 254, 0.05) 69%,rgba(160, 160, 160, 0.05) 69%, rgba(160, 160, 160, 0.05) 100%),linear-gradient(194deg, rgba(102, 102, 102, 0.02) 0%, rgba(102, 102, 102, 0.02) 60%,rgba(67, 67, 67, 0.02) 60%, rgba(67, 67, 67, 0.02) 100%),linear-gradient(76deg, rgba(169, 169, 169, 0.06) 0%, rgba(169, 169, 169, 0.06) 89%,rgba(189, 189, 189, 0.06) 89%, rgba(189, 189, 189, 0.06) 100%),linear-gradient(326deg, rgba(213, 213, 213, 0.04) 0%, rgba(213, 213, 213, 0.04) 45%,rgba(66, 66, 66, 0.04) 45%, rgba(66, 66, 66, 0.04) 100%),linear-gradient(183deg, rgba(223, 223, 223, 0.01) 0%, rgba(223, 223, 223, 0.01) 82%,rgba(28, 28, 28, 0.01) 82%, rgba(28, 28, 28, 0.01) 100%),linear-gradient(3deg, rgba(20, 20, 20, 0.06) 0%, rgba(20, 20, 20, 0.06) 62%,rgba(136, 136, 136, 0.06) 62%, rgba(136, 136, 136, 0.06) 100%),linear-gradient(200deg, rgba(206, 206, 206, 0.09) 0%, rgba(206, 206, 206, 0.09) 58%,rgba(6, 6, 6, 0.09) 58%, rgba(6, 6, 6, 0.09) 100%),linear-gradient(304deg, rgba(162, 162, 162, 0.07) 0%, rgba(162, 162, 162, 0.07) 27%,rgba(24, 24, 24, 0.07) 27%, rgba(24, 24, 24, 0.07) 100%),linear-gradient(186deg, rgba(166, 166, 166, 0.04) 0%, rgba(166, 166, 166, 0.04) 5%,rgba(210, 210, 210, 0.04) 5%, rgba(210, 210, 210, 0.04) 100%),linear-gradient(90deg, rgb(26, 118, 64),rgb(32, 207, 121),rgb(78, 196, 128))",
+        "linear-gradient(45deg, rgb(64, 140, 190) 0%, rgb(64, 140, 190) 7%,rgb(62, 107, 145) 7%, rgb(62, 107, 145) 9%,rgb(49, 99, 131) 9%, rgb(49, 99, 131) 11%,rgb(116, 172, 211) 11%, rgb(116, 172, 211) 26%,rgb(125, 182, 214) 26%, rgb(125, 182, 214) 34%,rgb(40, 90, 136) 34%, rgb(40, 90, 136) 41%,rgb(39, 123, 190) 41%, rgb(39, 123, 190) 100%)"
+
+      ]
     })
   },
   components: {
     Select,
     FontPicker,
-    'color-picker': Chrome
+    'color-picker': Chrome,
+    VueTinyTabs
   },
   methods:{
     fontChange(font){
       this.activeFont = font.family
+    },
+    setBgColor(color){
+      this.bgColor.hex8 = color;
+    },
+    changeScreenshot(){
+      this.$refs.ss.click()
+    },
+    async changeSS(event){
+      console.log(this.getBaseUrl(event.target.files[0]));
+      this.ss = await this.getBaseUrl(event.target.files[0]);
+    },
+    getBaseUrl(file)  {
+        return new Promise((resolve) => {
+          var reader = new FileReader();
+          var baseString;
+          reader.onloadend = function () {
+              baseString = reader.result;
+              resolve(baseString);
+          };
+          reader.readAsDataURL(file);
+        })
+    },
+    downloadImage(){
+      html2canvas(document.querySelector("#screenshot"), {
+        //backgroundColor:null,
+        allowTaint:true
+      }).then((canvas) => {
+        this.saveAs(canvas.toDataURL(), 'screenshot.png')
+      });
+    },
+
+    saveAs(uri, filename) {
+
+      var link = document.createElement('a');
+
+      if (typeof link.download === 'string') {
+
+          link.href = uri;
+          link.download = filename;
+
+          //Firefox requires the link to be in the body
+          document.body.appendChild(link);
+
+          //simulate click
+          link.click();
+
+          //remove the link when done
+          document.body.removeChild(link);
+
+      } else {
+
+          window.open(uri);
+
+      }
     }
   }
 }
 </script>
 
 <style lang="scss">
+
   .screenshot-wrapper{
     width:500px;
     height:899px;
+  }
+
+  #screenshot{
+    position:absolute;
+    top:-9999px;
+  }
+
+  .ss-file-input{
+    opacity:0;
+    position:absolute;
+    z-index: -9990;
+    top:-9999px;
+  }
+
+  .screenshot-cover{
+    width:72%;
+    height:71%;
+    position:absolute;
+    bottom:0;
+    left:50%;
+    transform:translateX(-50%);
+    background-size: contain;
+    background-repeat: no-repeat
+  }
+
+  .tinytabs .tabs {
+    display: flex;
+    flex-flow: row wrap;
+    @apply border-b 
+  }
+  .tinytabs .tabs .tab .close {
+    padding-left: 5px;
+  }
+  .tinytabs .tabs .tab {
+    margin: 0 3px 0 0;
+    @apply bg-white;
+    display: block;
+    padding: 6px 15px;
+    text-decoration: none;
+    color: #666;
+    border-radius: 3px 3px 0 0;
+  }
+  .tinytabs .section {
+    overflow: hidden;
+    padding: 15px;
+    clear: both;
+    border-radius: 3px;
+  }
+  .tinytabs .tab.sel {
+    @apply bg-gray-200;
+    color: #333;
+    font-weight:bold;
+    text-shadow: none;
+    margin-bottom:-1px
   }
 </style>

diff --git a/src/components/Select.vue b/src/components/Select.vue
@@ -1,9 +1,8 @@
 <template>
     <div class="relative">
         <select class="shadow block appearance-none w-full bg-white border border-gray-200 text-gray-700 py-3 px-4 pr-8 rounded leading-tight focus:outline-none focus:bg-white focus:border-gray-500" id="grid-state">
-            <option>New Mexico</option>
-            <option>Missouri</option>
-            <option>Texas</option>
+            <option>Nexus</option>
+            <option>iPhone</option>
         </select>
         <div class="pointer-events-none absolute inset-y-0 right-0 flex items-center px-2 text-gray-700">
             <svg class="fill-current h-4 w-4" xmlns="http://www.w3.org/2000/svg" viewBox="0 0 20 20"><path d="M9.293 12.95l.707.707L15.657 8l-1.414-1.414L10 10.828 5.757 6.586 4.343 8z"/></svg>
